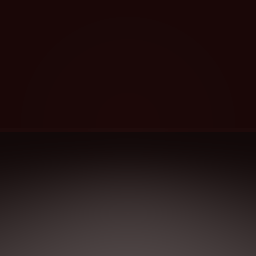
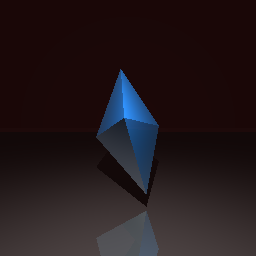
Implement Pyramid class

Changed region(s): [[0.375, 0.2812, 0.625, 1.0]]

diff --git a/helper_classes.py b/helper_classes.py
@@ -232,6 +232,7 @@ A /&&&&&&&&&&&&&&&&&&&&\ B &&&/ C
         E -> C -> B
         C -> E -> A
     """
+
     def __init__(self, v_list):
         self.v_list = v_list
         self.triangle_list = self.create_triangle_list()
@@ -239,22 +240,35 @@ A /&&&&&&&&&&&&&&&&&&&&\ B &&&/ C
     def create_triangle_list(self):
         l = []
         t_idx = [
-                [0,1,3],
-                [1,2,3],
-                [0,3,2],
-                 [4,1,0],
-                 [4,2,1],
-                 [2,4,0]]
-        # TODO
+            [0, 1, 3],
+            [1, 2, 3],
+            [0, 3, 2],
+            [4, 1, 0],
+            [4, 2, 1],
+            [2, 4, 0]]
+        for idx in t_idx:
+            l.append(Triangle(self.v_list[idx[0]], self.v_list[idx[1]], self.v_list[idx[2]]))
+
         return l
 
     def apply_materials_to_triangles(self):
-        # TODO
-        pass
+        for t in self.triangle_list:
+            t.set_material(self.ambient, self.diffuse, self.specular, self.shininess, self.reflection)
 
     def intersect(self, ray: Ray):
-        # TODO
-        pass
+        min_distance = np.inf
+        nearest_object = None
+
+        for triangle in self.triangle_list:
+            intersection = triangle.intersect(ray)
+            if intersection:
+                if intersection[0] < min_distance:
+                    min_distance = intersection[0]
+                    nearest_object = intersection[1]
+
+        if nearest_object:
+            return min_distance, nearest_object
+
 
 class Sphere(Object3D):
     def __init__(self, center, radius: float):
